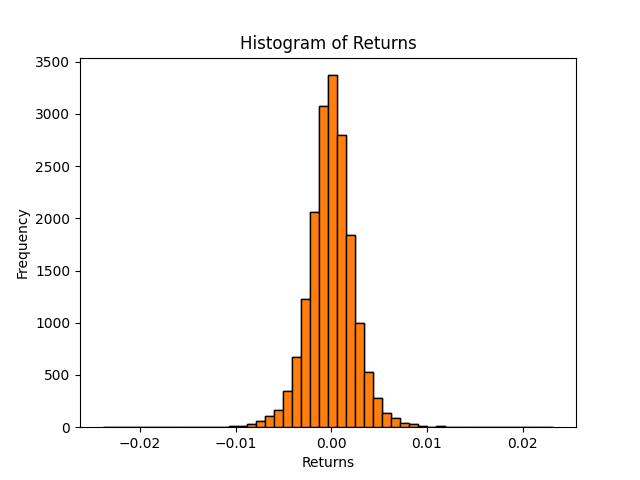
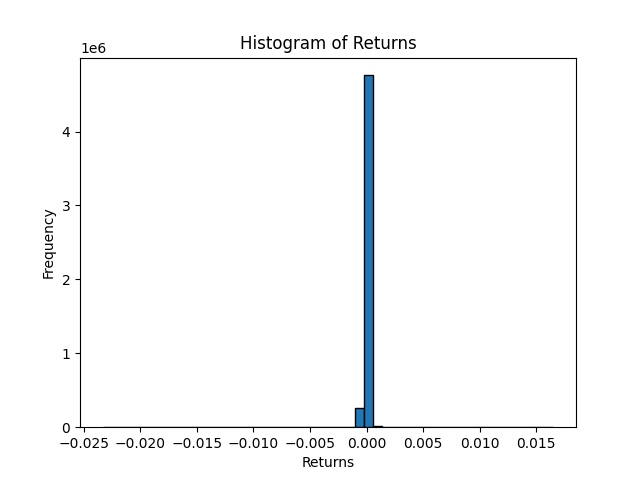
updated

diff --git a/src/assets/forex/train_matrix/oop_train.py b/src/assets/forex/train_matrix/oop_train.py
@@ -36,7 +36,7 @@ class CreateBars:
 
     def create_dollar_bars(self):
         """Create dollar bars from asset data."""
-        self.dollar_bars = dbc(self.asset,self.dollar_amt )
+        self.dollar_bars = dbc(self.asset,self.raw_bars,self.dollar_amt )
         return self.dollar_bars
     
     def create_CUMSUM_filter(self, bars):
@@ -157,14 +157,17 @@ class Model:
 if __name__ in "__main__":
     
     asset = 'EURUSD'
-    dollar_amount =50000
+    dollar_amount =10000
 
-    lookback = 40
+    lookback = 20
     
     raw= pd.read_csv(f'merged.csv')
     
    # print('raw:',raw)
-    raw['Returns'] = raw[f'Close_{asset}'].pct_change()
+
+    for i in ['AUDUSD','USDCAD','USDCHF']:
+    
+        raw[f'{i}_Returns'] = raw[f'Close_{asset}'].pct_change()
     print(raw)
     
     cb = CreateBars(asset,raw, dollar_amount)
@@ -210,7 +213,7 @@ if __name__ in "__main__":
     df =L.triple_barriers()
 
     print('labeldf',df)
-    
+    df.to_csv('test_df.csv')
 
 #    print('tEvents:',tEvents)
 
@@ -219,7 +222,7 @@ if __name__ in "__main__":
 
 
     df= fm.feature_add()
-    fm.elbow_()
+   # fm.elbow_()
     
 
     print('df test',df)
@@ -237,17 +240,19 @@ if __name__ in "__main__":
   
 
     # Filter df by tEvents
-   # filtered_df = df[df.index.isin(tEvents)]
+    filtered_df = df[df.index.isin(tEvents)]
 
-    filtered_df = df[df.isin(tEvents)]
-
+   # filtered_df = df[df.isin(tEvents)]
+    
+    #filtered_df = filtered_df[42:]
+    #filtered_df =df
     #filtered_df =df
     #filtered_df =df
     print('filtered_df:',filtered_df)
     filtered_df =filtered_df.dropna()
     #print('df:',filtered_df)
-    df = df.dropna()
-    m = Model(df, asset)
+   # df = df.dropna()
+    m = Model(filtered_df, asset)
     print(m.train_model())
     
    # df =cb.create_dollar_bars()

diff --git a/src/assets/forex/train_matrix/dollar_bars.py b/src/assets/forex/train_matrix/dollar_bars.py
@@ -4,9 +4,9 @@ import pandas as pd
 
 
 
-def dollar_bar_creator(asset,dollar_amt):
+def dollar_bar_creator(asset,df_,dollar_amt):
 
-    df_ = pd.read_csv('merged.csv')
+    #df_ = pd.read_csv('merged.csv')
     df_.sort_values('Date', inplace =True)
     
     close = f'Close_{asset}'
@@ -31,7 +31,7 @@ def dollar_bar_creator(asset,dollar_amt):
         #vol_count += d[volume]
 
         if dollar_count >= dollar_amt:
-            bar ={'Date':i,'Close':d[close],'Volume':d[volume],'AUDUSD':d['Close_AUDUSD'],'USDCAD':d['Close_USDCAD'],'USDCHF':d['Close_USDCHF']}
+            bar ={'Date':i,'Close':d[close],'Volume':d[volume],'AUDUSD':d['Close_AUDUSD'],'USDCAD':d['Close_USDCAD'],'USDCHF':d['Close_USDCHF'],'AUDUSD_Returns':d['AUDUSD_Returns'],'USDCAD_Returns':d['USDCAD_Returns'],'USDCHF_Returns':d['USDCHF_Returns']}
             new_bar.append(bar)
          #   vol_count = 0 
             dollar_count = 0

diff --git a/src/assets/forex/train_matrix/train_models.py b/src/assets/forex/train_matrix/train_models.py
@@ -122,7 +122,7 @@ def random_forest_classifier(df, asset, lookback):
     all_predictions = []
     all_actuals = []
     all_preds = []
-    n_components = 4
+    n_components = 10
     scaler = StandardScaler()
     
     # Define a parameter grid for GridSearchCV
@@ -1282,8 +1282,8 @@ def Hist_boosted(df, asset, lookback):
     y = df['label']
 
     # Initialize the classifiers with PCA and StandardScaler
-    clf_hist = make_pipeline(StandardScaler(), PCA(n_components=3), HistGradientBoostingClassifier())
-    clf_rf = make_pipeline(StandardScaler(), PCA(n_components=3), RandomForestClassifier())
+    clf_hist = make_pipeline(StandardScaler(), PCA(n_components=10), HistGradientBoostingClassifier())
+    clf_rf = make_pipeline(StandardScaler(), PCA(n_components=10), RandomForestClassifier())
 
     # Define parameter grid for HistGradientBoostingClassifier
     param_grid = {

diff --git a/src/assets/forex/train_matrix/insert_db2.py b/src/assets/forex/train_matrix/insert_db2.py
@@ -66,9 +66,14 @@ def data_pull():
     #######
     usdjpy = pd.read_sql('SELECT Date, Close as Close_USDJPY FROM USDJPY', engine)
     merged = pd.merge(merged, usdjpy, on='Date', how='left')
-    merged['Close_USDPY'] = merged['Close_USDJPY'].fillna(method='ffill')
+    merged['Close_USDJPY'] = merged['Close_USDJPY'].fillna(method='ffill')
     ########
-
+    durable = pd.read_sql('SELECT date as Date, value as durableGoods FROM durableGoods', engine)
+    durable['Date'] = pd.to_datetime(durable['Date'])
+    merged = pd.merge_asof(merged, durable, on='Date', direction='nearest')
+    merged['durableGoods'] = merged['durableGoods'].fillna(method='ffill')
+    
+    ########
 
     merged.to_csv('merged.csv')
     

diff --git a/src/assets/forex/train_matrix/features.py b/src/assets/forex/train_matrix/features.py
@@ -66,10 +66,10 @@ def add_price_features(df,asset, window_length):
     df['RSI'] = 100 - (100 / (1 + rs))
 
 
-    df = add_stochastic_oscillator(df, window_length)
+   # df = add_stochastic_oscillator(df, window_length)
 
-    df = calculate_OBV(df)
-    df = add_ichimoku(df)
+   # df = calculate_OBV(df)
+   # df = add_ichimoku(df)
 
 
 

diff --git a/src/assets/forex/train_matrix/barriers.py b/src/assets/forex/train_matrix/barriers.py
@@ -323,7 +323,7 @@ def new_apply_triple_barrier(df, pt_sl, endbar, asset):
     
 
     print('dataframeindex:', df.index)
-    
+   # endbar = endbar + 50
     # Compute rolling daily volatility
     #rolling_window = 72 # Example window size, you can adjust this
     daily_volatility = df[close].pct_change().rolling(window=endbar).std()
